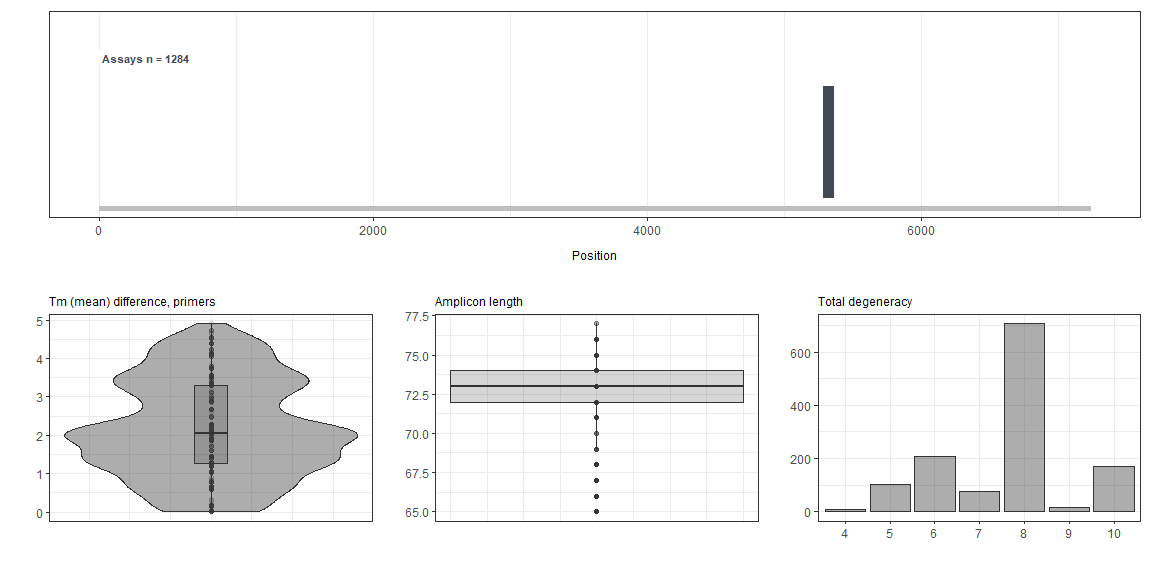
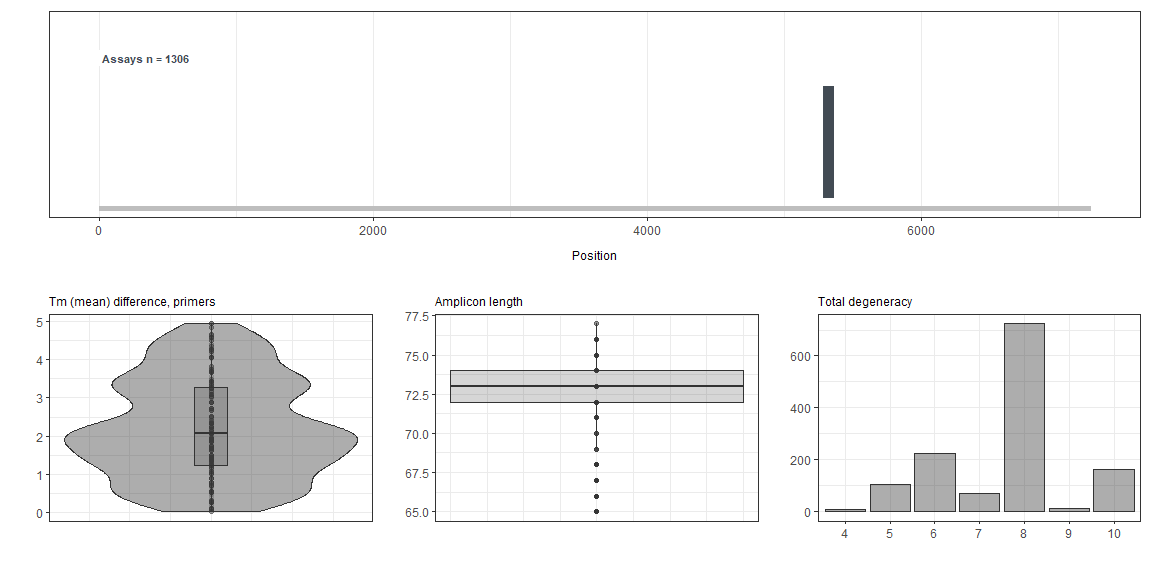
Depends R 4.1

diff --git a/README.md b/README.md
@@ -20,7 +20,9 @@ library(rprimer)
 ## Overview
 
 rprimer provides tools for designing broadly reactive primers, probes
-and (RT)-(q/d)PCR assays from a multiple DNA sequence alignment.
+and (RT)-(q/d)PCR assays from a multiple DNA sequence alignment. It is
+especially designed for finding degenerate primers to sequence variable
+viruses.
 
 The package contains four functions:
 
@@ -109,14 +111,14 @@ myOligos <- oligos(myConsensusProfile)
 
 Results (first six rows):
 
-| type   | fwd   | rev   | start | end | length | iupacSequence        | iupacSequenceRc      | identity | coverage | degeneracy | gcContentMean | gcContentRange | tmMean | tmRange | sequence   | sequenceRc | gcContent  | tm         | method    | roiStart | roiEnd |
-| :----- | :---- | :---- | ----: | --: | -----: | :------------------- | :------------------- | -------: | -------: | ---------: | ------------: | -------------: | -----: | ------: | :--------- | :--------- | :--------- | :--------- | :-------- | -------: | -----: |
-| primer | FALSE | TRUE  |    26 |  43 |     18 | ATGGAGGCCCAYCAGTTY   | RAACTGRTGGGCCTCCAT   |     0.95 |        1 |          4 |          0.56 |           0.11 |  57.14 |    3.25 | ATGGAGGC…. | GAACTGGT…. | 0.611111…. | 58.74874…. | ambiguous |        1 |   7238 |
-| primer | FALSE | TRUE  |    26 |  44 |     19 | ATGGAGGCCCAYCAGTTYA  | TRAACTGRTGGGCCTCCAT  |     0.95 |        1 |          4 |          0.53 |           0.11 |  57.74 |    5.24 | ATGGAGGC…. | TGAACTGG…. | 0.578947…. | 60.36049…. | ambiguous |        1 |   7238 |
-| primer | FALSE | TRUE  |    26 |  45 |     20 | ATGGAGGCCCAYCAGTTYAT | ATRAACTGRTGGGCCTCCAT |     0.96 |        1 |          4 |          0.50 |           0.10 |  57.93 |    4.99 | ATGGAGGC…. | ATGAACTG…. | 0.55, 0….. | 60.42434…. | ambiguous |        1 |   7238 |
-| probe  | TRUE  | FALSE |    26 |  43 |     18 | ATGGAGGCCCAYCAGTTY   | RAACTGRTGGGCCTCCAT   |     0.95 |        1 |          4 |          0.56 |           0.11 |  56.03 |    3.26 | ATGGAGGC…. | GAACTGGT…. | 0.611111…. | 57.64097…. | ambiguous |        1 |   7238 |
-| probe  | TRUE  | TRUE  |    26 |  44 |     19 | ATGGAGGCCCAYCAGTTYA  | TRAACTGRTGGGCCTCCAT  |     0.95 |        1 |          4 |          0.53 |           0.11 |  56.68 |    5.23 | ATGGAGGC…. | TGAACTGG…. | 0.578947…. | 59.29114…. | ambiguous |        1 |   7238 |
-| probe  | TRUE  | TRUE  |    26 |  45 |     20 | ATGGAGGCCCAYCAGTTYAT | ATRAACTGRTGGGCCTCCAT |     0.96 |        1 |          4 |          0.50 |           0.10 |  56.92 |    4.98 | ATGGAGGC…. | ATGAACTG…. | 0.55, 0….. | 59.40578…. | ambiguous |        1 |   7238 |
+| type   | fwd   | rev   | start | end | length | iupacSequence        | iupacSequenceRc      | identity | coverage | degeneracy | gcContentMean | gcContentRange | tmMean | tmRange | deltaGMean | deltaGRange | sequence   | sequenceRc | gcContent  | tm         | deltaG      | method    | roiStart | roiEnd |
+| :----- | :---- | :---- | ----: | --: | -----: | :------------------- | :------------------- | -------: | -------: | ---------: | ------------: | -------------: | -----: | ------: | ---------: | ----------: | :--------- | :--------- | :--------- | :--------- | :---------- | :-------- | -------: | -----: |
+| primer | FALSE | TRUE  |    26 |  43 |     18 | ATGGAGGCCCAYCAGTTY   | RAACTGRTGGGCCTCCAT   |     0.95 |        1 |          4 |          0.56 |           0.11 |  54.92 |    3.27 |     \-8.88 |        1.30 | ATGGAGGC…. | GAACTGGT…. | 0.611111…. | 56.54057…. | \-9.52761…. | ambiguous |        1 |   7238 |
+| primer | FALSE | TRUE  |    26 |  44 |     19 | ATGGAGGCCCAYCAGTTYA  | TRAACTGRTGGGCCTCCAT  |     0.95 |        1 |          4 |          0.53 |           0.11 |  55.62 |    5.22 |     \-9.11 |        2.23 | ATGGAGGC…. | TGAACTGG…. | 0.578947…. | 58.22863…. | \-10.2223…. | ambiguous |        1 |   7238 |
+| primer | FALSE | TRUE  |    26 |  45 |     20 | ATGGAGGCCCAYCAGTTYAT | ATRAACTGRTGGGCCTCCAT |     0.96 |        1 |          4 |          0.50 |           0.10 |  55.91 |    4.97 |     \-9.17 |        2.23 | ATGGAGGC…. | ATGAACTG…. | 0.55, 0….. | 58.39341…. | \-10.2845…. | ambiguous |        1 |   7238 |
+| probe  | TRUE  | FALSE |    26 |  43 |     18 | ATGGAGGCCCAYCAGTTY   | RAACTGRTGGGCCTCCAT   |     0.95 |        1 |          4 |          0.56 |           0.11 |  53.82 |    3.27 |     \-8.88 |        1.30 | ATGGAGGC…. | GAACTGGT…. | 0.611111…. | 55.44747…. | \-9.52761…. | ambiguous |        1 |   7238 |
+| probe  | TRUE  | TRUE  |    26 |  44 |     19 | ATGGAGGCCCAYCAGTTYA  | TRAACTGRTGGGCCTCCAT  |     0.95 |        1 |          4 |          0.53 |           0.11 |  54.57 |    5.20 |     \-9.11 |        2.23 | ATGGAGGC…. | TGAACTGG…. | 0.578947…. | 57.17288…. | \-10.2223…. | ambiguous |        1 |   7238 |
+| probe  | TRUE  | TRUE  |    26 |  45 |     20 | ATGGAGGCCCAYCAGTTYAT | ATRAACTGRTGGGCCTCCAT |     0.96 |        1 |          4 |          0.50 |           0.10 |  54.91 |    4.96 |     \-9.17 |        2.23 | ATGGAGGC…. | ATGAACTG…. | 0.55, 0….. | 57.38719…. | \-10.2845…. | ambiguous |        1 |   7238 |
 
 The results can be visualized using `plotData()`.
 
@@ -139,14 +141,14 @@ myAssays <- assays(myOligos)
 
 Results (first six rows):
 
-| start |  end | ampliconLength | tmDifferencePrimer | tmDifferencePrimerProbe | totalDegeneracy | startFwd | endFwd | lengthFwd | iupacSequenceFwd     | identityFwd | coverageFwd | degeneracyFwd | gcContentMeanFwd | gcContentRangeFwd | tmMeanFwd | tmRangeFwd | sequenceFwd | gcContentFwd | tmFwd      | methodFwd | startRev | endRev | lengthRev | iupacSequenceRev      | identityRev | coverageRev | degeneracyRev | gcContentMeanRev | gcContentRangeRev | tmMeanRev | tmRangeRev | sequenceRev | gcContentRev | tmRev      | methodRev | plusPr | minusPr | startPr | endPr | lengthPr | iupacSequencePr        | iupacSequenceRcPr      | identityPr | coveragePr | degeneracyPr | gcContentMeanPr | gcContentRangePr | tmMeanPr | tmRangePr | sequencePr | sequenceRcPr | gcContentPr | tmPr       | methodPr  | roiStart | roiEnd |
-| ----: | ---: | -------------: | -----------------: | ----------------------: | --------------: | -------: | -----: | --------: | :------------------- | ----------: | ----------: | ------------: | ---------------: | ----------------: | --------: | ---------: | :---------- | :----------- | :--------- | :-------- | -------: | -----: | --------: | :-------------------- | ----------: | ----------: | ------------: | ---------------: | ----------------: | --------: | ---------: | :---------- | :----------- | :--------- | :-------- | :----- | :------ | ------: | ----: | -------: | :--------------------- | :--------------------- | ---------: | ---------: | -----------: | --------------: | ---------------: | -------: | --------: | :--------- | :----------- | :---------- | :--------- | :-------- | -------: | -----: |
-|  5286 | 5361 |             76 |               4.64 |                    0.24 |               6 |     5286 |   5305 |        20 | GGCRGTGGTTTCTGGGGTGA |        0.98 |           1 |             2 |             0.62 |              0.05 |     62.84 |       2.51 | GGCAGTGG….  | 0.6, 0.65    | 61.57995…. | ambiguous |     5342 |   5361 |        20 | CRAAGGGGTTGGTTGGATGA  |        0.98 |           1 |             2 |             0.52 |              0.05 |     58.19 |       1.99 | CGAAGGGG….  | 0.55, 0.5    | 59.18721…. | ambiguous | TRUE   | TRUE    |    5307 |  5328 |       22 | MGGGTTGATTCTCAGCCCTTCG | CGAAGGGCTGAGAATCAACCCK |       0.98 |          1 |            2 |            0.57 |             0.05 |    60.75 |      1.22 | AGGGTTGA…. | CGAAGGGC….   | 0.545454….  | 60.14594…. | ambiguous |        1 |   7238 |
-|  5286 | 5361 |             76 |               4.64 |                    0.01 |               8 |     5286 |   5305 |        20 | GGCRGTGGTTTCTGGGGTGA |        0.98 |           1 |             2 |             0.62 |              0.05 |     62.84 |       2.51 | GGCAGTGG….  | 0.6, 0.65    | 61.57995…. | ambiguous |     5342 |   5361 |        20 | CRAAGGGGTTGGTTGGATGA  |        0.98 |           1 |             2 |             0.52 |              0.05 |     58.19 |       1.99 | CGAAGGGG….  | 0.55, 0.5    | 59.18721…. | ambiguous | TRUE   | FALSE   |    5314 |  5334 |       21 | ATTCTCAGCCCTTCGCMMTCC  | GGAKKGCGAAGGGCTGAGAAT  |       0.98 |          1 |            4 |            0.57 |             0.10 |    60.53 |      3.49 | ATTCTCAG…. | GGATTGCG….   | 0.523809….  | 58.78181…. | ambiguous |        1 |   7238 |
-|  5286 | 5361 |             76 |               4.64 |                    1.96 |               8 |     5286 |   5305 |        20 | GGCRGTGGTTTCTGGGGTGA |        0.98 |           1 |             2 |             0.62 |              0.05 |     62.84 |       2.51 | GGCAGTGG….  | 0.6, 0.65    | 61.57995…. | ambiguous |     5342 |   5361 |        20 | CRAAGGGGTTGGTTGGATGA  |        0.98 |           1 |             2 |             0.52 |              0.05 |     58.19 |       1.99 | CGAAGGGG….  | 0.55, 0.5    | 59.18721…. | ambiguous | TRUE   | FALSE   |    5314 |  5335 |       22 | ATTCTCAGCCCTTCGCMMTCCC | GGGAKKGCGAAGGGCTGAGAAT |       0.98 |          1 |            4 |            0.59 |             0.09 |    62.47 |      3.36 | ATTCTCAG…. | GGGATTGC….   | 0.545454….  | 60.80008…. | ambiguous |        1 |   7238 |
-|  5286 | 5361 |             76 |               4.64 |                    2.54 |               8 |     5286 |   5305 |        20 | GGCRGTGGTTTCTGGGGTGA |        0.98 |           1 |             2 |             0.62 |              0.05 |     62.84 |       2.51 | GGCAGTGG….  | 0.6, 0.65    | 61.57995…. | ambiguous |     5342 |   5361 |        20 | CRAAGGGGTTGGTTGGATGA  |        0.98 |           1 |             2 |             0.52 |              0.05 |     58.19 |       1.99 | CGAAGGGG….  | 0.55, 0.5    | 59.18721…. | ambiguous | TRUE   | TRUE    |    5318 |  5339 |       22 | TCAGCCCTTCGCMMTCCCCTAT | ATAGGGGAKKGCGAAGGGCTGA |       0.98 |          1 |            4 |            0.59 |             0.09 |    63.05 |      3.43 | TCAGCCCT…. | ATAGGGGA….   | 0.545454….  | 61.34426…. | ambiguous |        1 |   7238 |
-|  5286 | 5361 |             76 |               4.64 |                    0.63 |               8 |     5286 |   5305 |        20 | GGCRGTGGTTTCTGGGGTGA |        0.98 |           1 |             2 |             0.62 |              0.05 |     62.84 |       2.51 | GGCAGTGG….  | 0.6, 0.65    | 61.57995…. | ambiguous |     5342 |   5361 |        20 | CRAAGGGGTTGGTTGGATGA  |        0.98 |           1 |             2 |             0.52 |              0.05 |     58.19 |       1.99 | CGAAGGGG….  | 0.55, 0.5    | 59.18721…. | ambiguous | TRUE   | TRUE    |    5320 |  5339 |       20 | AGCCCTTCGCMMTCCCCTAT   | ATAGGGGAKKGCGAAGGGCT   |       0.98 |          1 |            4 |            0.60 |             0.10 |    61.14 |      3.77 | AGCCCTTC…. | ATAGGGGA….   | 0.55, 0…..  | 59.26267…. | ambiguous |        1 |   7238 |
-|  5286 | 5362 |             77 |               1.85 |                    0.56 |               8 |     5286 |   5305 |        20 | GGCRGTGGTTTCTGGGGTGA |        0.98 |           1 |             2 |             0.62 |              0.05 |     62.84 |       2.51 | GGCAGTGG….  | 0.6, 0.65    | 61.57995…. | ambiguous |     5342 |   5362 |        21 | GCRAAGGGGTTGGTTGGATGA |        0.98 |           1 |             2 |             0.55 |              0.05 |     60.99 |       1.85 | GCGAAGGG….  | 0.571428….   | 61.91509…. | ambiguous | TRUE   | FALSE   |    5314 |  5335 |       22 | ATTCTCAGCCCTTCGCMMTCCC | GGGAKKGCGAAGGGCTGAGAAT |       0.98 |          1 |            4 |            0.59 |             0.09 |    62.47 |      3.36 | ATTCTCAG…. | GGGATTGC….   | 0.545454….  | 60.80008…. | ambiguous |        1 |   7238 |
+| start |  end | ampliconLength | tmDifferencePrimer | tmDifferencePrimerProbe | deltaGDifferencePrimer | totalDegeneracy | startFwd | endFwd | lengthFwd | iupacSequenceFwd     | identityFwd | coverageFwd | degeneracyFwd | gcContentMeanFwd | gcContentRangeFwd | tmMeanFwd | tmRangeFwd | deltaGMeanFwd | deltaGRangeFwd | sequenceFwd | gcContentFwd | tmFwd      | deltaGFwd   | methodFwd | startRev | endRev | lengthRev | iupacSequenceRev     | identityRev | coverageRev | degeneracyRev | gcContentMeanRev | gcContentRangeRev | tmMeanRev | tmRangeRev | deltaGMeanRev | deltaGRangeRev | sequenceRev | gcContentRev | tmRev      | deltaGRev   | methodRev | plusPr | minusPr | startPr | endPr | lengthPr | iupacSequencePr        | iupacSequenceRcPr      | identityPr | coveragePr | degeneracyPr | gcContentMeanPr | gcContentRangePr | tmMeanPr | tmRangePr | deltaGMeanPr | deltaGRangePr | sequencePr | sequenceRcPr | gcContentPr | tmPr       | deltaGPr    | methodPr  | deltaGDifferencePrimerProbe | roiStart | roiEnd |
+| ----: | ---: | -------------: | -----------------: | ----------------------: | ---------------------: | --------------: | -------: | -----: | --------: | :------------------- | ----------: | ----------: | ------------: | ---------------: | ----------------: | --------: | ---------: | ------------: | -------------: | :---------- | :----------- | :--------- | :---------- | :-------- | -------: | -----: | --------: | :------------------- | ----------: | ----------: | ------------: | ---------------: | ----------------: | --------: | ---------: | ------------: | -------------: | :---------- | :----------- | :--------- | :---------- | :-------- | :----- | :------ | ------: | ----: | -------: | :--------------------- | :--------------------- | ---------: | ---------: | -----------: | --------------: | ---------------: | -------: | --------: | -----------: | ------------: | :--------- | :----------- | :---------- | :--------- | :---------- | :-------- | --------------------------: | -------: | -----: |
+|  5286 | 5361 |             76 |               4.63 |                    0.45 |                   2.13 |               6 |     5286 |   5305 |        20 | GGCRGTGGTTTCTGGGGTGA |        0.98 |           1 |             2 |             0.62 |              0.05 |     60.84 |       2.51 |        \-11.4 |           1.17 | GGCAGTGG….  | 0.6, 0.65    | 59.58519…. | \-10.8196…. | ambiguous |     5342 |   5361 |        20 | CRAAGGGGTTGGTTGGATGA |        0.98 |           1 |             2 |             0.52 |              0.05 |     56.21 |          2 |        \-9.27 |            0.9 | CGAAGGGG….  | 0.55, 0.5    | 57.20928…. | \-9.71979…. | ambiguous | TRUE   | TRUE    |    5307 |  5328 |       22 | MGGGTTGATTCTCAGCCCTTCG | CGAAGGGCTGAGAATCAACCCK |       0.98 |          1 |            2 |            0.57 |             0.05 |    58.98 |      1.25 |      \-11.00 |          0.64 | AGGGTTGA…. | CGAAGGGC….   | 0.545454….  | 58.34934…. | \-10.6782…. | ambiguous |                      \-0.66 |        1 |   7238 |
+|  5286 | 5361 |             76 |               4.63 |                    0.20 |                   2.13 |               8 |     5286 |   5305 |        20 | GGCRGTGGTTTCTGGGGTGA |        0.98 |           1 |             2 |             0.62 |              0.05 |     60.84 |       2.51 |        \-11.4 |           1.17 | GGCAGTGG….  | 0.6, 0.65    | 59.58519…. | \-10.8196…. | ambiguous |     5342 |   5361 |        20 | CRAAGGGGTTGGTTGGATGA |        0.98 |           1 |             2 |             0.52 |              0.05 |     56.21 |          2 |        \-9.27 |            0.9 | CGAAGGGG….  | 0.55, 0.5    | 57.20928…. | \-9.71979…. | ambiguous | TRUE   | FALSE   |    5312 |  5333 |       22 | TGATTCTCAGCCCTTCGCMMTC | GAKKGCGAAGGGCTGAGAATCA |       0.98 |          1 |            4 |            0.55 |             0.09 |    58.73 |      3.29 |      \-10.86 |          1.70 | TGATTCTC…. | GATTGCGA….   | 0.5, 0.5….  | 57.08416…. | \-10.0128…. | ambiguous |                      \-0.53 |        1 |   7238 |
+|  5286 | 5361 |             76 |               4.63 |                    0.13 |                   2.13 |               8 |     5286 |   5305 |        20 | GGCRGTGGTTTCTGGGGTGA |        0.98 |           1 |             2 |             0.62 |              0.05 |     60.84 |       2.51 |        \-11.4 |           1.17 | GGCAGTGG….  | 0.6, 0.65    | 59.58519…. | \-10.8196…. | ambiguous |     5342 |   5361 |        20 | CRAAGGGGTTGGTTGGATGA |        0.98 |           1 |             2 |             0.52 |              0.05 |     56.21 |          2 |        \-9.27 |            0.9 | CGAAGGGG….  | 0.55, 0.5    | 57.20928…. | \-9.71979…. | ambiguous | TRUE   | FALSE   |    5314 |  5334 |       21 | ATTCTCAGCCCTTCGCMMTCC  | GGAKKGCGAAGGGCTGAGAAT  |       0.98 |          1 |            4 |            0.57 |             0.10 |    58.65 |      3.46 |      \-10.83 |          1.70 | ATTCTCAG…. | GGATTGCG….   | 0.523809….  | 56.92118…. | \-9.98307…. | ambiguous |                      \-0.50 |        1 |   7238 |
+|  5286 | 5361 |             76 |               4.63 |                    2.14 |                   2.13 |               8 |     5286 |   5305 |        20 | GGCRGTGGTTTCTGGGGTGA |        0.98 |           1 |             2 |             0.62 |              0.05 |     60.84 |       2.51 |        \-11.4 |           1.17 | GGCAGTGG….  | 0.6, 0.65    | 59.58519…. | \-10.8196…. | ambiguous |     5342 |   5361 |        20 | CRAAGGGGTTGGTTGGATGA |        0.98 |           1 |             2 |             0.52 |              0.05 |     56.21 |          2 |        \-9.27 |            0.9 | CGAAGGGG….  | 0.55, 0.5    | 57.20928…. | \-9.71979…. | ambiguous | TRUE   | FALSE   |    5314 |  5335 |       22 | ATTCTCAGCCCTTCGCMMTCCC | GGGAKKGCGAAGGGCTGAGAAT |       0.98 |          1 |            4 |            0.59 |             0.09 |    60.67 |      3.33 |      \-11.86 |          1.70 | ATTCTCAG…. | GGGATTGC….   | 0.545454….  | 59.00487…. | \-11.0118…. | ambiguous |                      \-1.53 |        1 |   7238 |
+|  5286 | 5361 |             76 |               4.63 |                    2.68 |                   2.13 |               8 |     5286 |   5305 |        20 | GGCRGTGGTTTCTGGGGTGA |        0.98 |           1 |             2 |             0.62 |              0.05 |     60.84 |       2.51 |        \-11.4 |           1.17 | GGCAGTGG….  | 0.6, 0.65    | 59.58519…. | \-10.8196…. | ambiguous |     5342 |   5361 |        20 | CRAAGGGGTTGGTTGGATGA |        0.98 |           1 |             2 |             0.52 |              0.05 |     56.21 |          2 |        \-9.27 |            0.9 | CGAAGGGG….  | 0.55, 0.5    | 57.20928…. | \-9.71979…. | ambiguous | TRUE   | TRUE    |    5318 |  5339 |       22 | TCAGCCCTTCGCMMTCCCCTAT | ATAGGGGAKKGCGAAGGGCTGA |       0.98 |          1 |            4 |            0.59 |             0.09 |    61.21 |      3.40 |      \-12.13 |          1.70 | TCAGCCCT…. | ATAGGGGA….   | 0.545454….  | 59.51325…. | \-11.2768…. | ambiguous |                      \-1.79 |        1 |   7238 |
+|  5286 | 5361 |             76 |               4.63 |                    0.60 |                   2.13 |               8 |     5286 |   5305 |        20 | GGCRGTGGTTTCTGGGGTGA |        0.98 |           1 |             2 |             0.62 |              0.05 |     60.84 |       2.51 |        \-11.4 |           1.17 | GGCAGTGG….  | 0.6, 0.65    | 59.58519…. | \-10.8196…. | ambiguous |     5342 |   5361 |        20 | CRAAGGGGTTGGTTGGATGA |        0.98 |           1 |             2 |             0.52 |              0.05 |     56.21 |          2 |        \-9.27 |            0.9 | CGAAGGGG….  | 0.55, 0.5    | 57.20928…. | \-9.71979…. | ambiguous | TRUE   | TRUE    |    5320 |  5339 |       20 | AGCCCTTCGCMMTCCCCTAT   | ATAGGGGAKKGCGAAGGGCT   |       0.98 |          1 |            4 |            0.60 |             0.10 |    59.12 |      3.73 |      \-11.07 |          1.70 | AGCCCTTC…. | ATAGGGGA….   | 0.55, 0…..  | 57.25513…. | \-10.2183…. | ambiguous |                      \-0.73 |        1 |   7238 |
 
 The assays can be visualized using `plotData()`:
 
